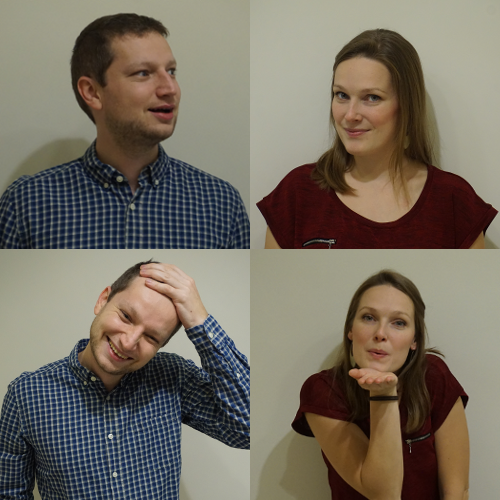
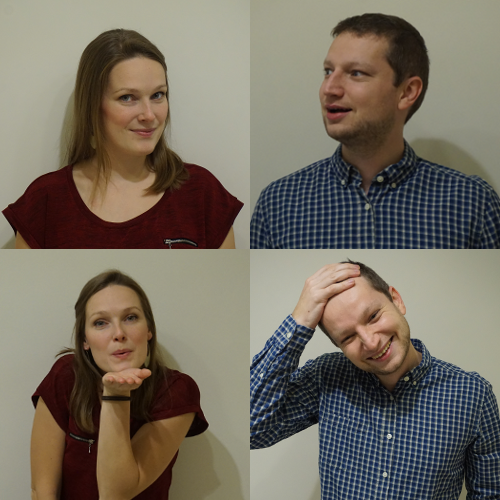
Change pictures

diff --git a/index.html b/index.html
@@ -2,9 +2,9 @@
 <html lang="en">
 <head>
     <meta charset="utf-8">
-    <title>Szőke-Holoda esküvő</title>
+    <title>Niki Zolcsó esküvő</title>
 
-    <meta name="description" content="Szőke-Holoda esküvő">
+    <meta name="description" content="Niki Zolcsó esküvő">
 
     <meta name="HandheldFriendly" content="True">
     <meta name="MobileOptimized" content="320">
@@ -86,7 +86,7 @@
                         html: '<h1 style="font-size: 1.2em;"><a href="https://www.google.com/maps?ll=47.936713,18.830179&z=16&t=m&hl=en-US&gl=US&mapclient=apiv3&cid=12104960969818876392" target="_blank">Malomkert Panzió és Étterem</a></h1><hr>'
                         + '<p>Nagybörzsöny, Hunyadi tér 18. hszm. 2634</p><p>17:00</p>',
                         icon: {
-                            image: "burito/images/marker-restaurant_33x50.png",
+                            image: "burito/images/marker-restaurant_33x50_green.png",
                             iconsize: [33, 50],
                             iconanchor: [16, 40]
                         }
@@ -153,7 +153,7 @@
 
 <!-- HEADER STARTS -->
 <header class="header" role="banner">
-    <h1 class="wrapper"><span>Zoli</span> és <span>Niki</span></h1>
+    <h1 class="wrapper"><span>Niki</span> és <span>Zoli</span></h1>
 
     <div class="images"><span class="him pile"></span><span class="her pile"></span></div>
     <h2>
@@ -173,20 +173,20 @@
 
         <div class="he">
             <p class="text-center">
-                <a href="https://www.facebook.com/nikolett.szoke.12" target="_blank"><strong>Szőke Nikolett</strong></a>
-            </p>
-            <p>
-                "Zolival a koliban találkoztunk, szomszédok voltunk. Hosszú, göndör, hippi haja volt, amikor megismertem.
-                Aztán elment fodrászhoz és újra bemutatkoztam neki :) <br /> Most már én vágom a haját!"
-            </p>
-        </div>
-        <div class="she">
-            <p class="text-center">
                 <a href="https://www.facebook.com/holoda.zoltan" target="_blank"><strong>Holoda Zoltán</strong></a>
             </p>
             <p>
                 "Én Nikiben találtam meg az Igazit, sőt egyszer már igent is mondott Nekem.<br />
                 Ha kíváncsiak vagytok, hogy mindezt nagyközönség előtt is megerősíti-e, akkor csatlakozzatok hozzánk ezen a nagy napon."
+            </p>
+        </div>
+        <div class="she">
+            <p class="text-center">
+                <a href="https://www.facebook.com/nikolett.szoke.12" target="_blank"><strong>Szőke Nikolett</strong></a>
+            </p>
+            <p>
+                "Zolival a koliban találkoztunk, szomszédok voltunk. Hosszú, göndör, hippi haja volt, amikor megismertem.
+                Aztán elment fodrászhoz és újra bemutatkoztam neki :) <br /> Most már én vágom a haját!"
             </p>
         </div>
         <div class="they">
@@ -218,19 +218,20 @@
 
                 <div class="ceremony-1">
                     <span class="image pile">
-                        <img src="burito/images/templom.jpg" width="300" height="300" alt="templom">
+                        <img src="burito/images/malomkert.jpg" width="300" height="300" alt="Malomkert Étterem">
                     </span>
-                    <h3>Szertartás</h3>
-                    <h4>Nem lesz</h4>
+                    <h3>Szertartás és vacsorahelyszín</h3>
+                    <h4>Malomkert Étterem</h4>
+                    <p>Nagybörzsöny, Hunyadi tér 18. hszm. 2634</p>
+                    <p><a href="http://www.borzsonyhotel.hu/" target="_blank">www.borzsonyhotel.hu</a></p>
                 </div>
                 <div class="ceremony-2">
                     <span class="image pile">
-                        <img src="burito/images/malomkert.jpg" width="300" height="300" alt="Malomkert Panzió">
+                        <img src="burito/images/panzio.jpg" width="300" height="300" alt="Malomkert Panzió">
                     </span>
 
-                    <h3>Polgári esküvő, lakodalom és szállás</h3>
-                    <h4>Malomkert Panzió és Étterem</h4>
-                    <p>17:00</p>
+                    <h3>Szállás</h3>
+                    <h4>Malomkert Panzió</h4>
                     <p>Nagybörzsöny, Hunyadi tér 18. hszm. 2634</p>
                     <p><a href="http://www.borzsonyhotel.hu/" target="_blank">www.borzsonyhotel.hu</a></p>
                 </div>
